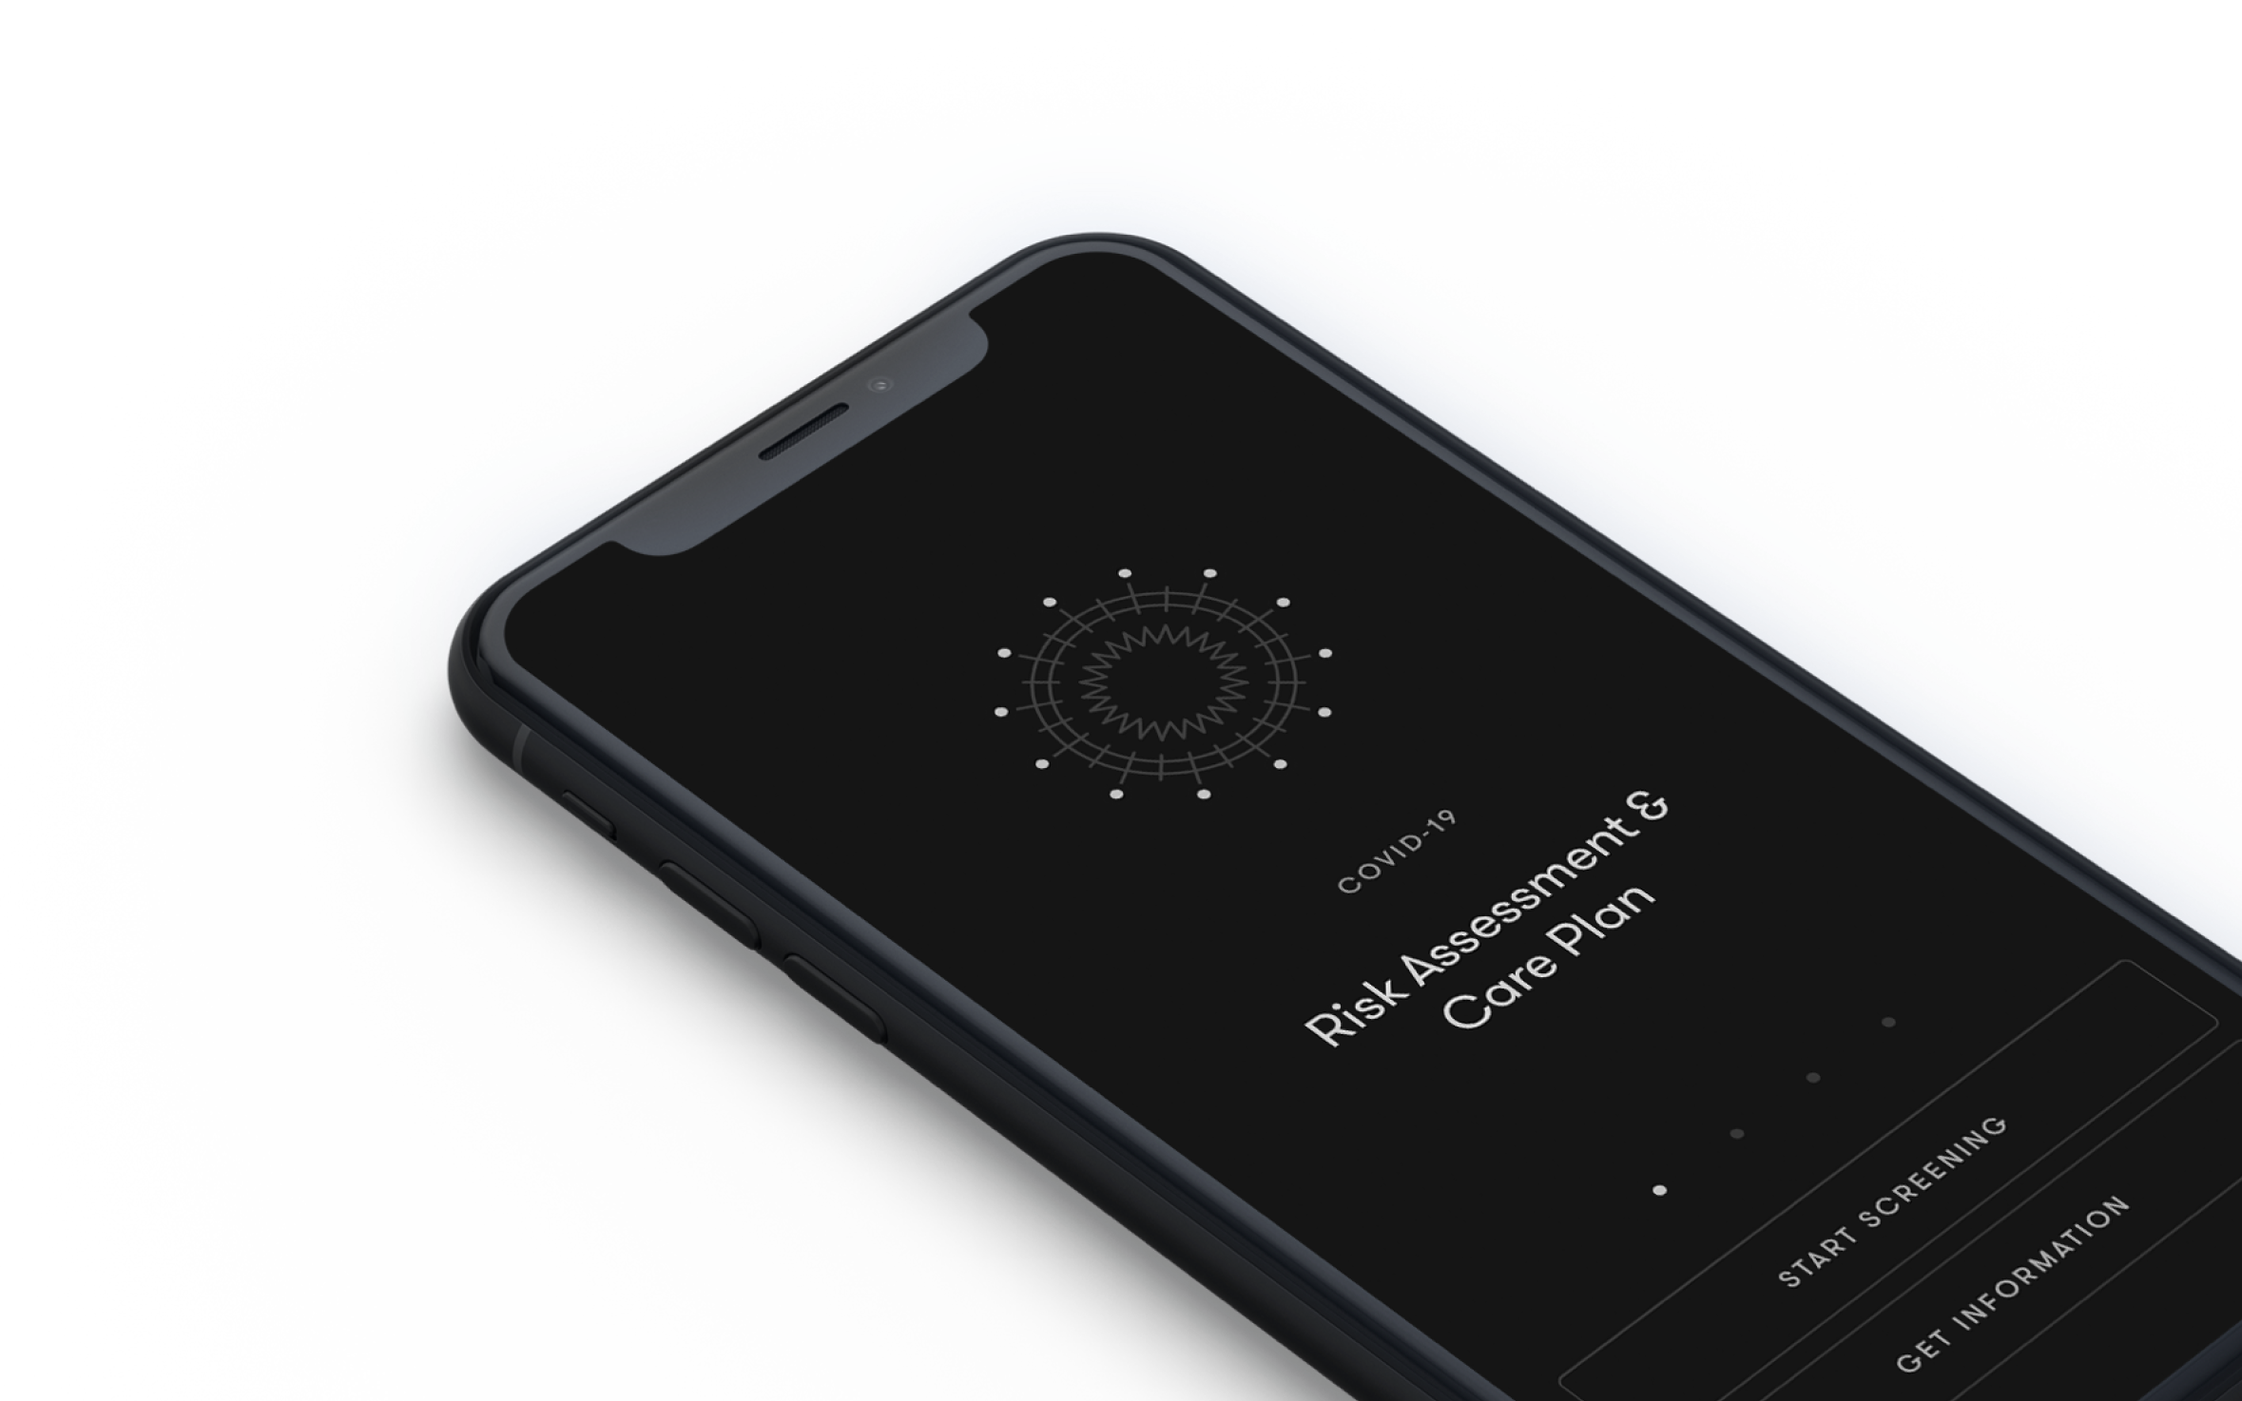
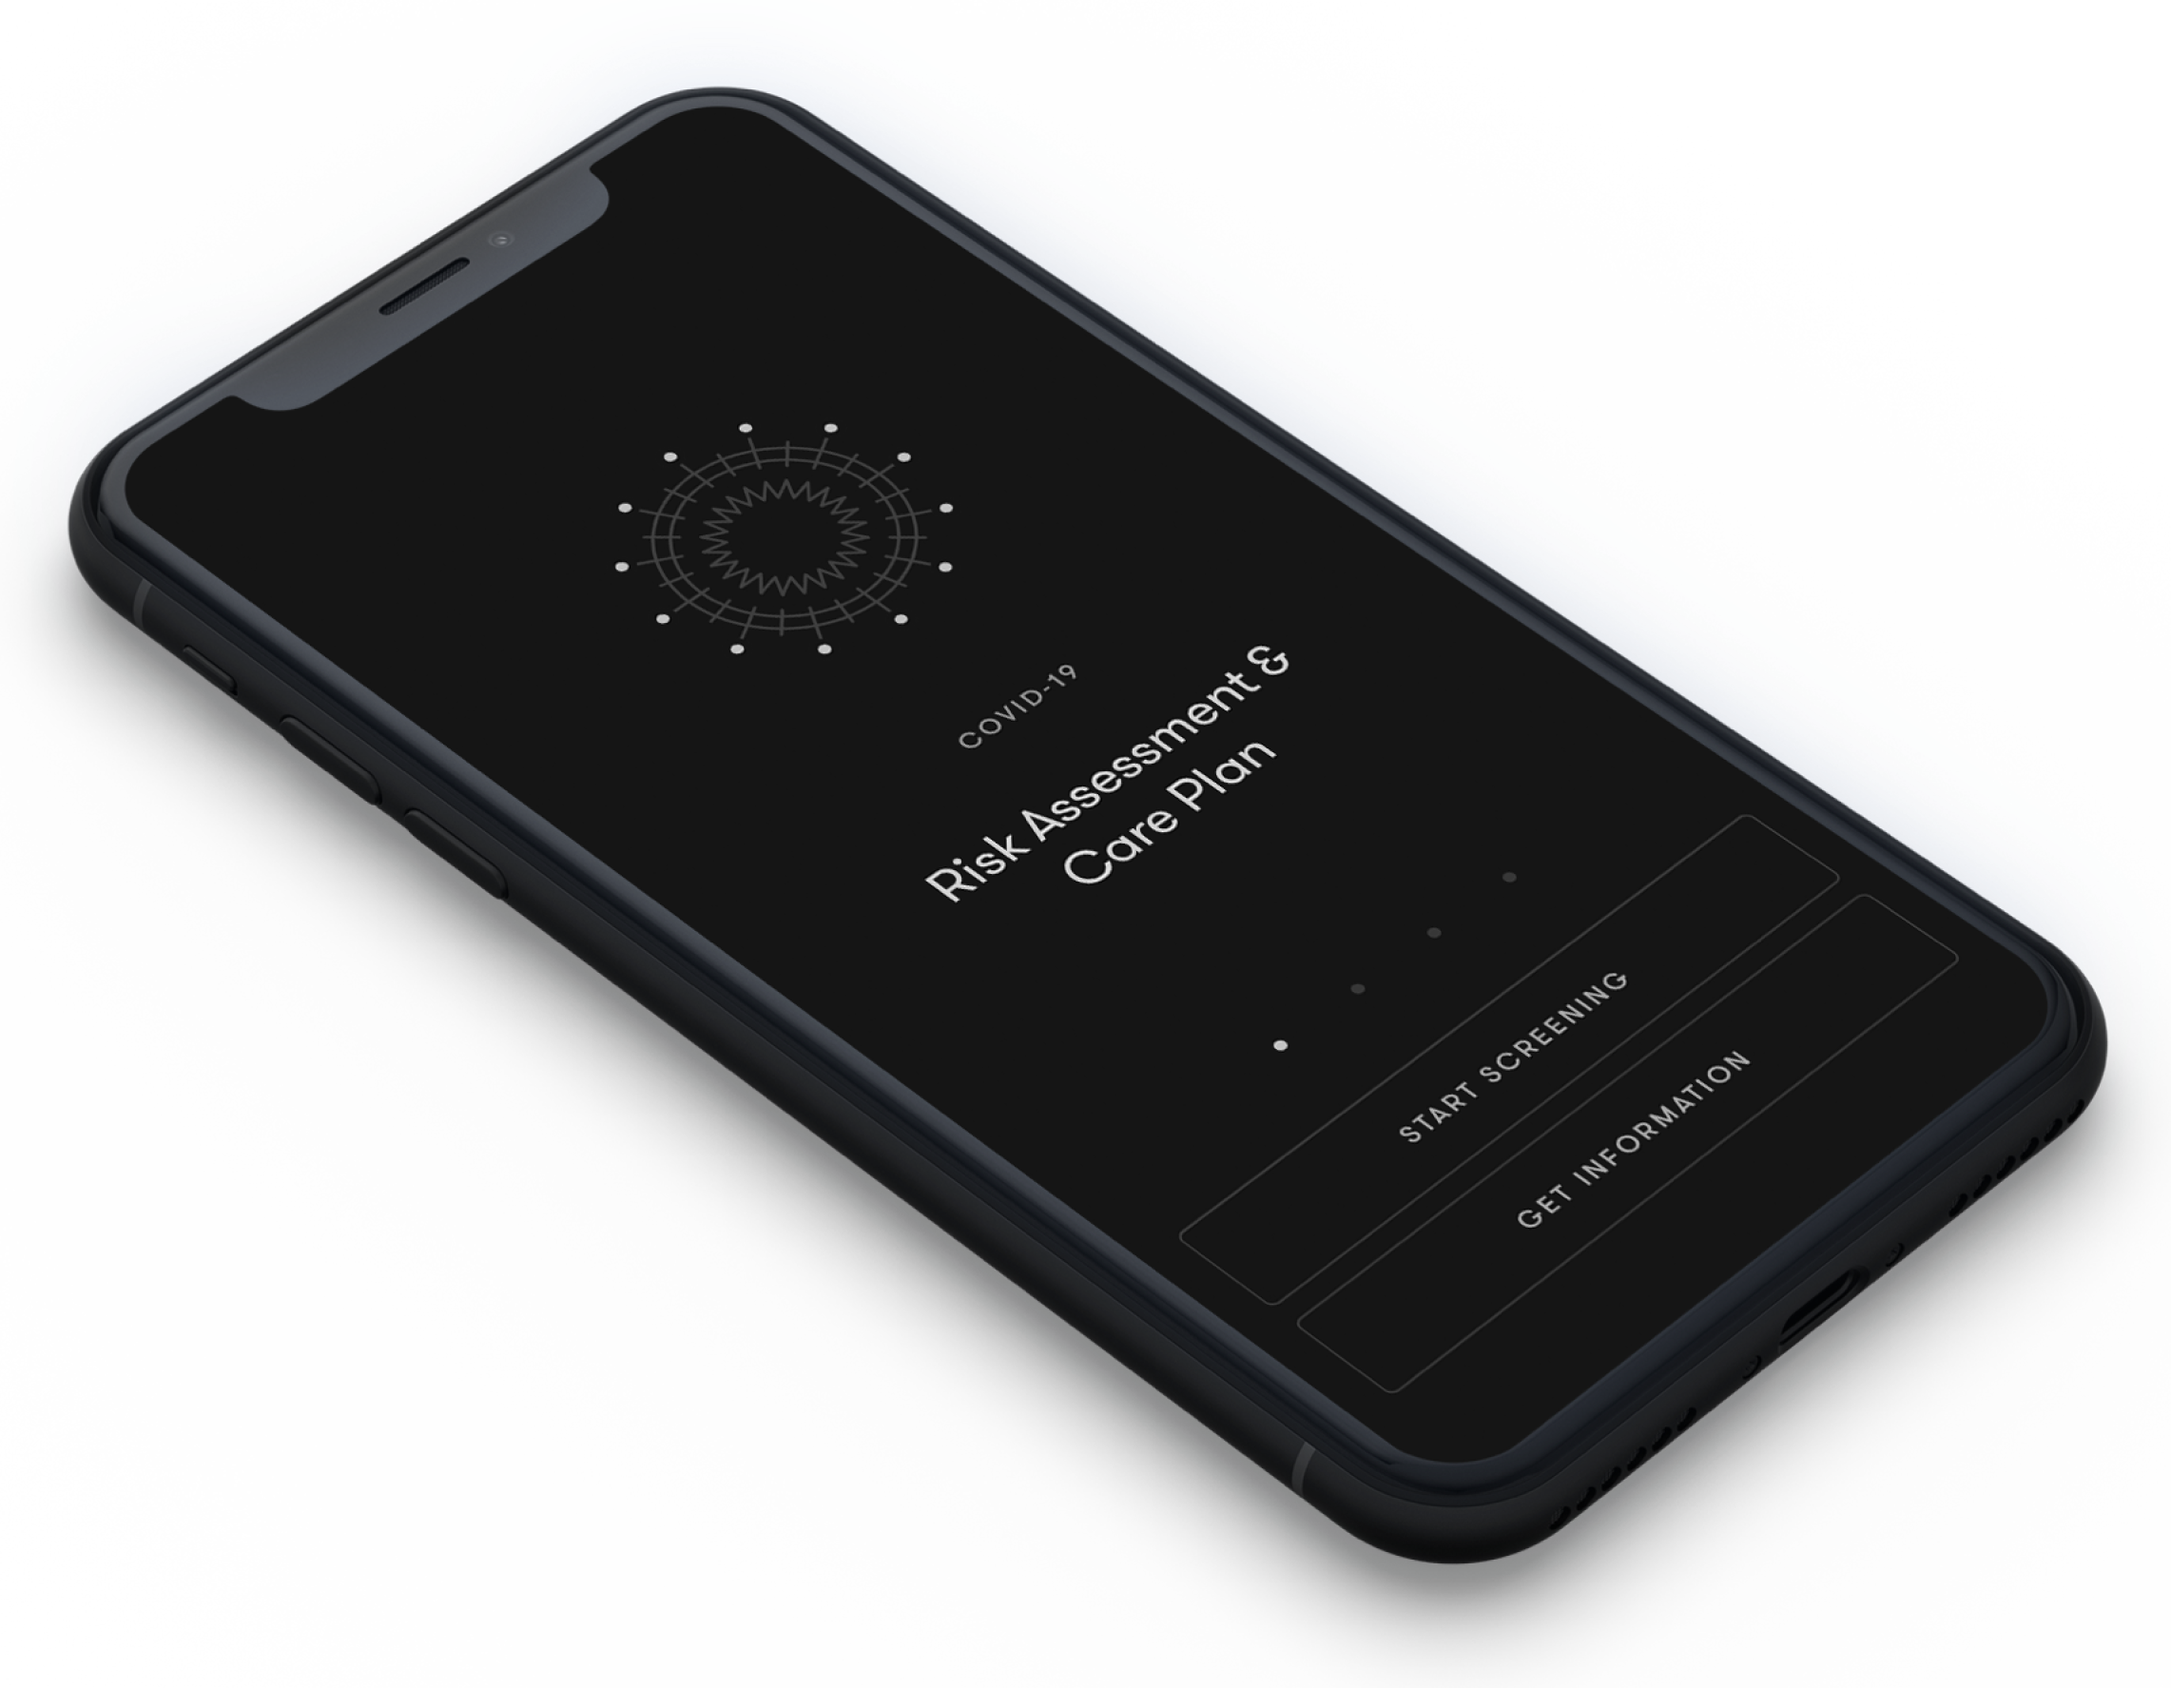
update nucleus iphone image

diff --git a/assets/styles/modules/_nucleus.scss b/assets/styles/modules/_nucleus.scss
@@ -49,7 +49,7 @@
     }
     .iphone-image {
       position: absolute;
-      bottom: -80px;
+      bottom: -40%;
       right: 0;
       max-height: 700px;
     }
@@ -99,11 +99,10 @@
       position: relative;
       padding-top: 65%;
       .iphone-image {
-        top: -60px;
+        top: 0;
         bottom: auto;
         right: -53%;
-        width: 150%;
-
+        width: 130%;
         max-height: none;
         max-width: 900px;
       }
@@ -150,7 +149,9 @@
   @include media-query(lap) {
     &-summary {
       .iphone-image {
-        right: -25%;
+        right: -35%;
+        bottom: -5%;
+        max-height: 640px;
       }
     }
   }
@@ -169,6 +170,7 @@
     &-summary {
       .iphone-image {
         right: -15%;
+        max-height: 730px;
       }
     }
   }
@@ -177,7 +179,26 @@
   @include media-query(desk-wide) {
     &-summary {
       .iphone-image {
-        right: 0;
+        right: -10%;
+        bottom: -46%;
+        max-height: 800px;
+      }
+    }
+  }
+
+  @media screen and (min-width: 1720px) {
+    &-summary {
+      .iphone-image {
+        right: 5%;
+        bottom: -40%;
+      }
+    }
+  }
+
+  @media screen and (min-width: 1880px) {
+    &-summary {
+      .iphone-image {
+        right: 10%;
       }
     }
   }

diff --git a/assets/styles/modules/_layout.scss b/assets/styles/modules/_layout.scss
@@ -4,6 +4,7 @@
   display: flex;
   flex-direction: column;
   min-height: 100vh;
+  overflow: hidden;
 
   .spacer-block {
     padding-top: 44px;
